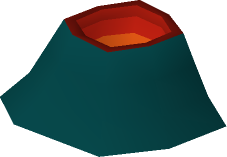
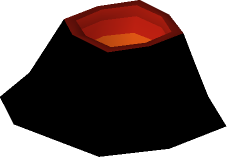
style(board): TzHaar's vents cool to black basalt and its floor pools lava instead of hairline cracks
The vent baked out teal because the object-def walk mis-read the ambient
sound: opcode 78 is four bytes (id u16, then distance and retain u8 each),
not two. Reading it as two left the cursor on the distance byte, the walk
reported "unknown object opcode 3" and stopped there, which silently
dropped every opcode after it — the recolour list (op 40) included. The
sulphur vent is the case that found it: its def paints the cone black by
recolouring 33676 to 0. With the walk fixed it bakes as black basalt with
a molten crater, the way Mor Ul Rek's own vents look.

Morytania's toadstools re-bake as a side effect and are the only other
sprite the fix changes: their def recolours the caps red, which the walk
had been dropping the same way. Checked by md5-diffing all 106 baked
scenery PNGs before and after.

The lava seam moves from Mor Ul Rek floor slab 11821 to 11829. Every slab
in the 11818-11829 block is black rock with lava showing through, but
measured over the block 11829 is the one where the lava pools rather than
runs as a hairline: 12.1% of its painted pixels are molten, against 2-4%
for the rest, and a hairline is the first thing a prop this size loses.
The camera stays shallow so the pool faces the player.

diff --git a/lib/game/assets.ts b/lib/game/assets.ts
@@ -721,7 +721,7 @@ export const ASSETS = {
       tz_brazier: `${LOCAL}/scenery/tz_brazier.png`,               // 11017 Brazier
       tz_lava_forge: `${LOCAL}/scenery/tz_lava_forge.png`,         // 11978 Lava forge
       tz_sulphur_vent: `${LOCAL}/scenery/tz_sulphur_vent.png`,     // 11851 Sulphur vent (model 9295)
-      tz_lava_seam: `${LOCAL}/scenery/tz_lava_seam.png`,           // 55995 Lava (cracked seam)
+      tz_lava_seam: `${LOCAL}/scenery/tz_lava_seam.png`,           // 11829 Mor Ul Rek floor slab (lava pool)
       tz_rock_pillar: `${LOCAL}/scenery/tz_rock_pillar.png`,       // 30284 Rocky support
       tz_lava_trough: `${LOCAL}/scenery/tz_lava_trough.png`,       // 18519 Lava trough
       tz_obsidian_rock: `${LOCAL}/scenery/tz_obsidian_rock.png`,   // 47241 Tzhaar-Ket-Rak Display
